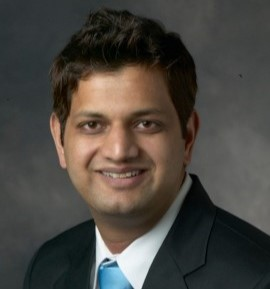
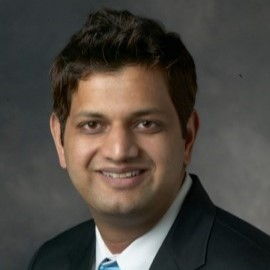
added williams image

diff --git a/src/pages/ConferenceX2025.tsx b/src/pages/ConferenceX2025.tsx
@@ -29,6 +29,7 @@ import sridhar from '../static/assets/2025_speakers/sridhar.jpg'
 import supekar from '../static/assets/2025_speakers/supekar.jpg'
 import wang from '../static/assets/2025_speakers/wang.png'
 import waslander from '../static/assets/2025_speakers/waslander.png'
+import william from '../static/assets/2025_speakers/william.jpeg'
 
 import accenture from '../static/assets/2025-confx-spons/conference 2025 logos/Accenture-logo.png'
 import trail from '../static/assets/2025-confx-spons/conference 2025 logos/trail.png'
@@ -318,7 +319,7 @@ const ConferenceX = () => {
                         flexDirection={'column'}
                         w={'340px'}
                     >
-                        <Image src={pant} h={'200px'} borderRadius={'50%'} />
+                        <Image src={william} h={'200px'} borderRadius={'50%'} />
                         <Text fontSize={['16px', '22px']} color={'light'}>
                             William Cunningham
                         </Text>
@@ -531,7 +532,7 @@ const ConferenceX = () => {
                             color={'light'}
                             textAlign="center"
                         >
-                            Quantitative Developer, Citadel Prev. Senior Machine
+                            Quantitative Developer, CitadelPrev. Senior Machine
                             Learning Engineer, Shopify
                         </Text>
                     </Flex>
